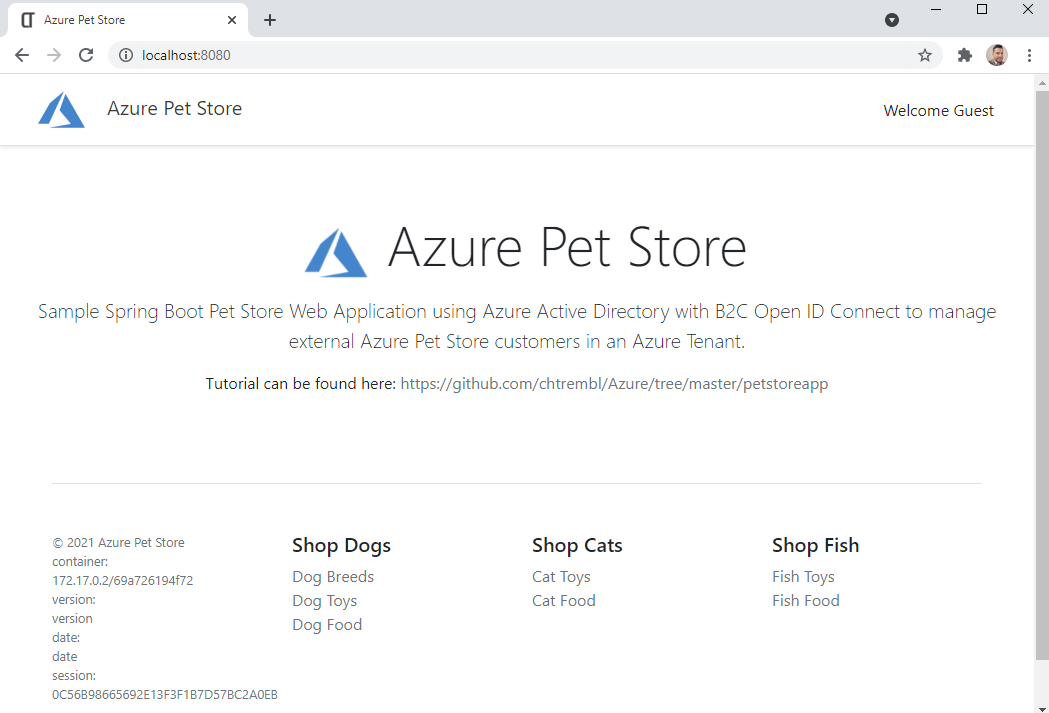
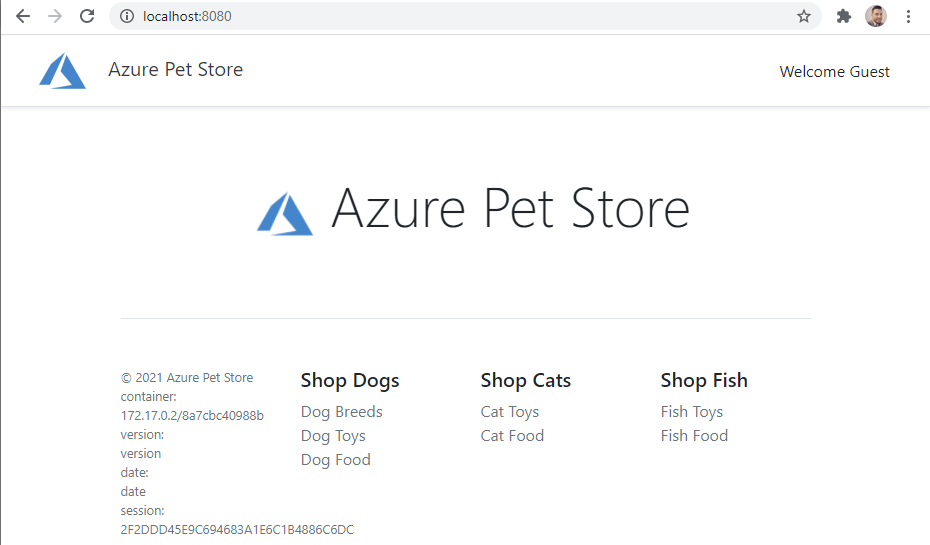
updates

diff --git a/petstore/petstoreapp/src/main/resources/templates/login.html b/petstore/petstoreapp/src/main/resources/templates/login.html
@@ -24,8 +24,7 @@
 			(<a href="/oauth2/authorization/B2C_1_signupsignin">Sign up /
 				Sign in</a> to continue)
 		</h2>
-		<p class="lead">Sample Spring Boot Pet Store Web Application using Azure Active Directory with B2C Open ID Connect to manage external Azure Pet Store customers in an Azure Tenant.</p>
-		<p> Tutorial can be found here: <a class="text-muted" href="https://github.com/chtrembl/Azure/tree/master/petstoreapp">https://github.com/chtrembl/Azure/tree/master/petstoreapp</a> </div>
+	</div>
 	<div lang="en" th:replace="fragments/footer :: footer"></div>
 </body>
 

diff --git a/petstore/petstoreapp/src/main/resources/templates/home.html b/petstore/petstoreapp/src/main/resources/templates/home.html
@@ -19,9 +19,7 @@
 				src="content/azure.png"
 				class="azureimagelarge" />Azure Pet Store
 		</h1>
-		<p />
-		<p class="lead">Sample Spring Boot Pet Store Web Application using Azure Active Directory with B2C Open ID Connect to manage external Azure Pet Store customers in an Azure Tenant.</p>
-		<p> Tutorial can be found here: <a class="text-muted" href="https://github.com/chtrembl/Azure/tree/master/petstoreapp">https://github.com/chtrembl/Azure/tree/master/petstoreapp</a> </div>
+	</div>
 	<div lang="en" th:replace="fragments/footer :: footer"></div>
 </body>
 

diff --git a/petstore/01-build-the-docker-images/README.md b/petstore/01-build-the-docker-images/README.md
@@ -21,7 +21,7 @@ You should see something similar to the below image:
 
 ![](images/prereq_check.png)
 
-**1. Build the Pet Store App Docker Image**
+**1. Build and Run the Pet Store App Docker Image**
 
 cd to azure-cloud/petstore/petstoreapp and run the following command
 
@@ -92,6 +92,8 @@ Open a browser and head to http://localhost:8080
 You should see something similar to the below image:
 
 ![](images/petstoreapp_runtime.png)
+
+**2. Build and Run the Pet Store Service Docker Image**
 
 ---
 ➡ Next guide: [02 - something](../02-something/README.md)
